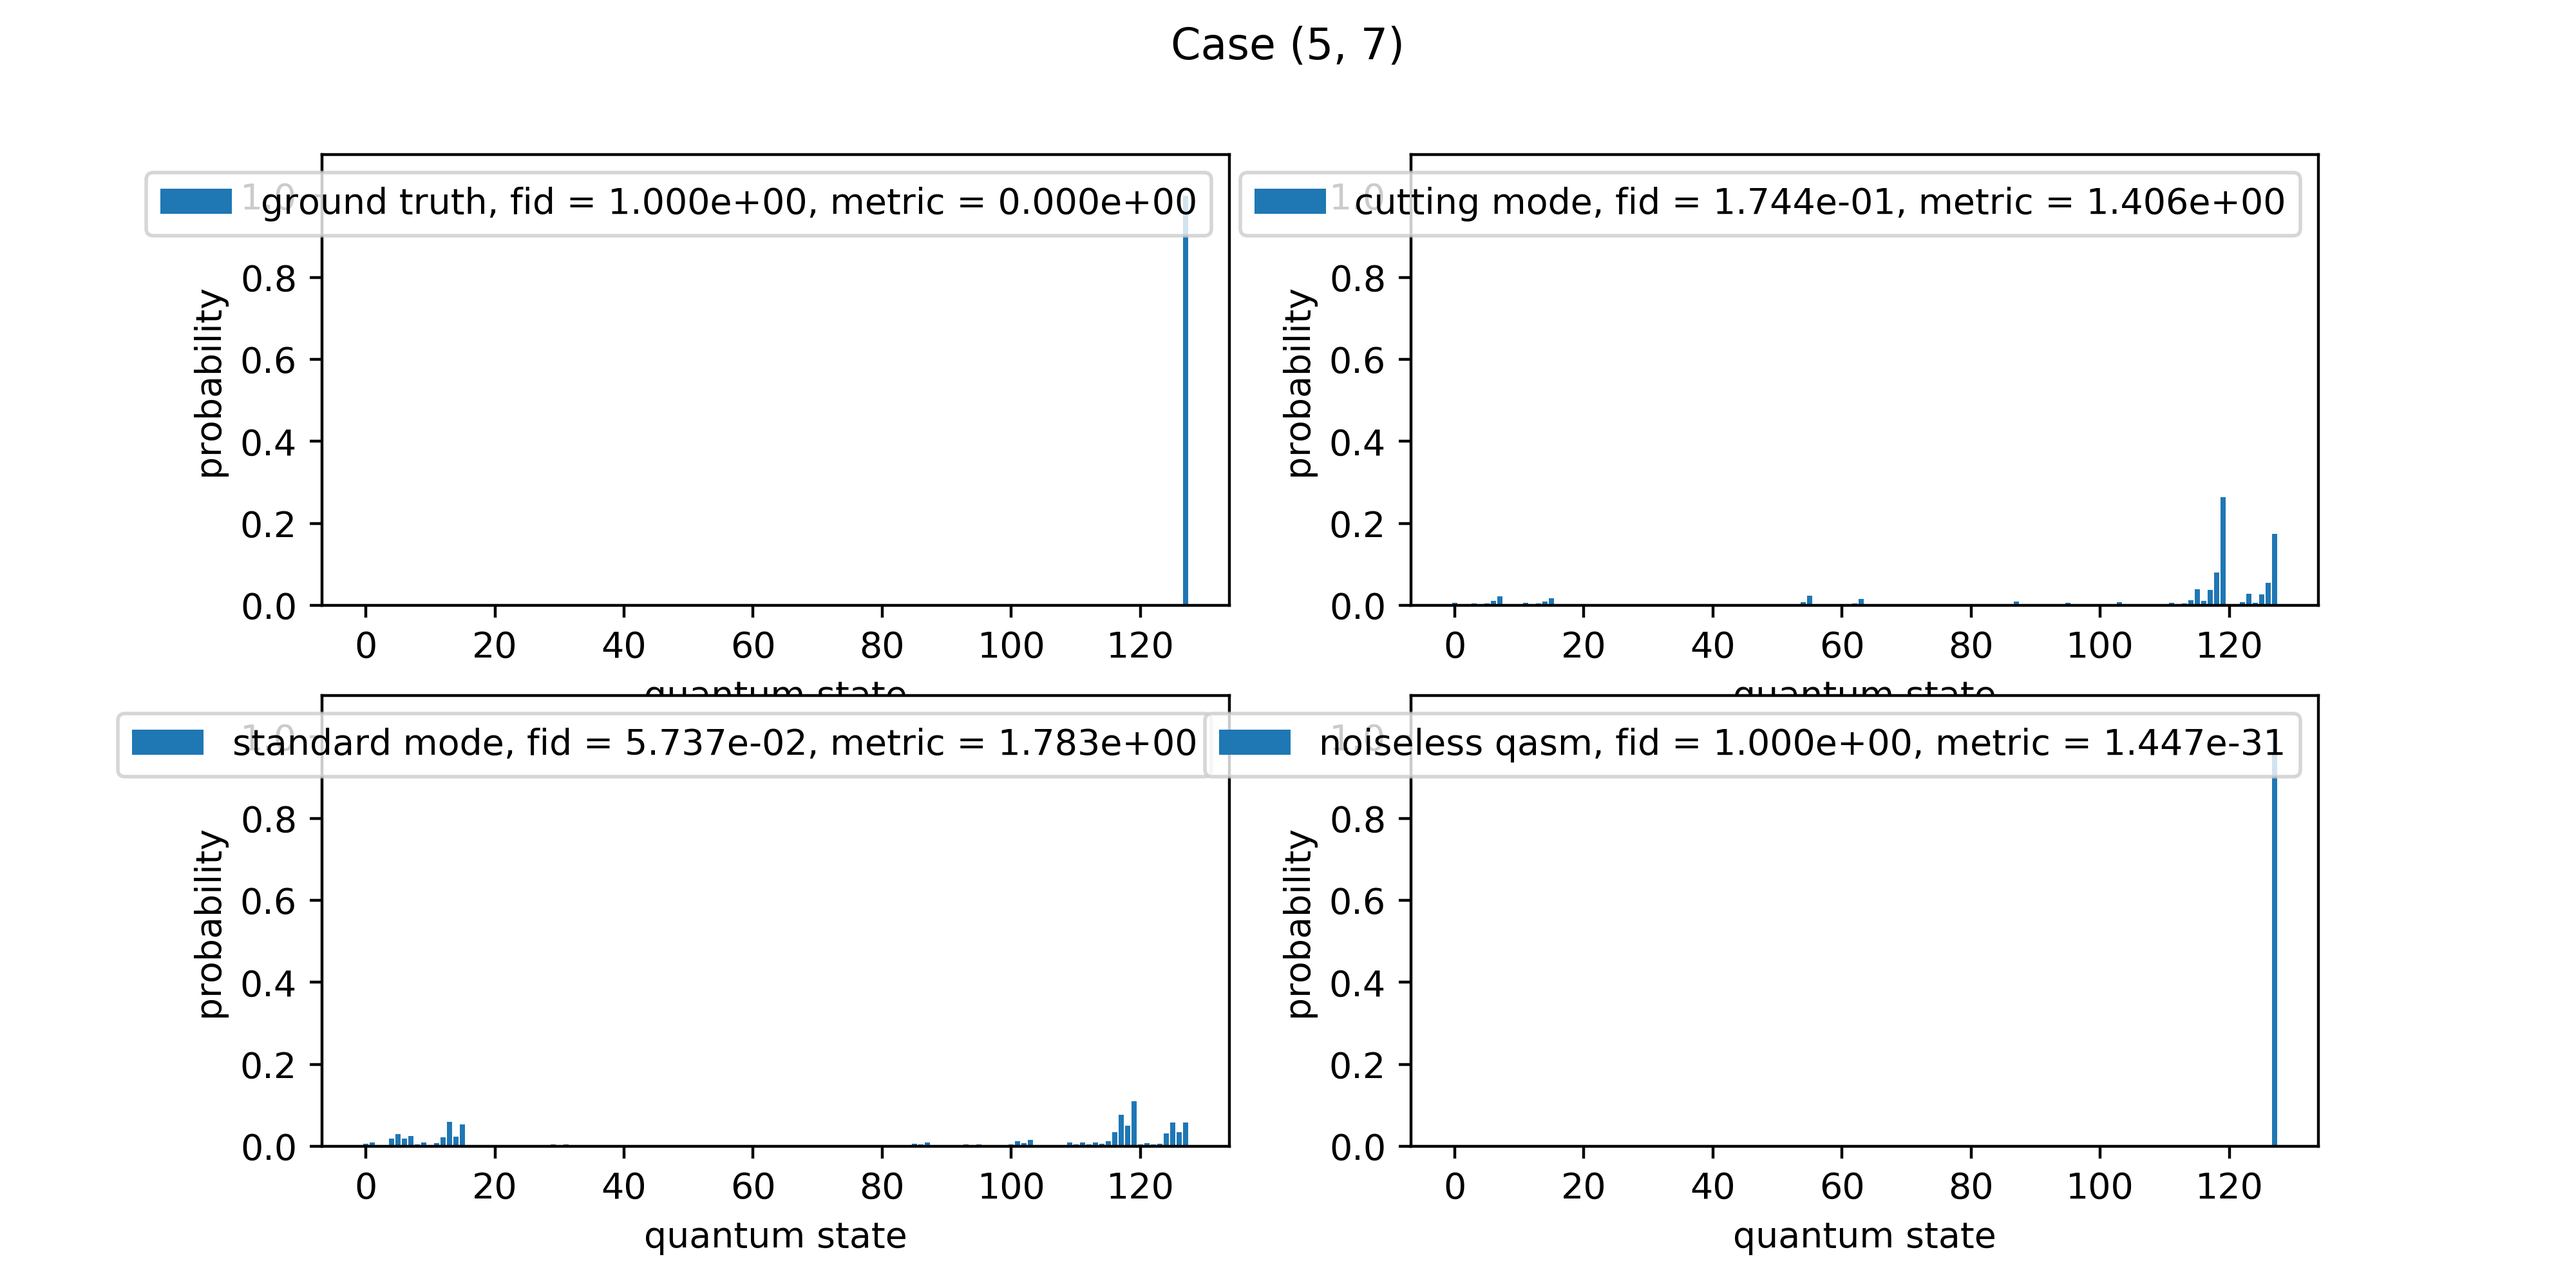
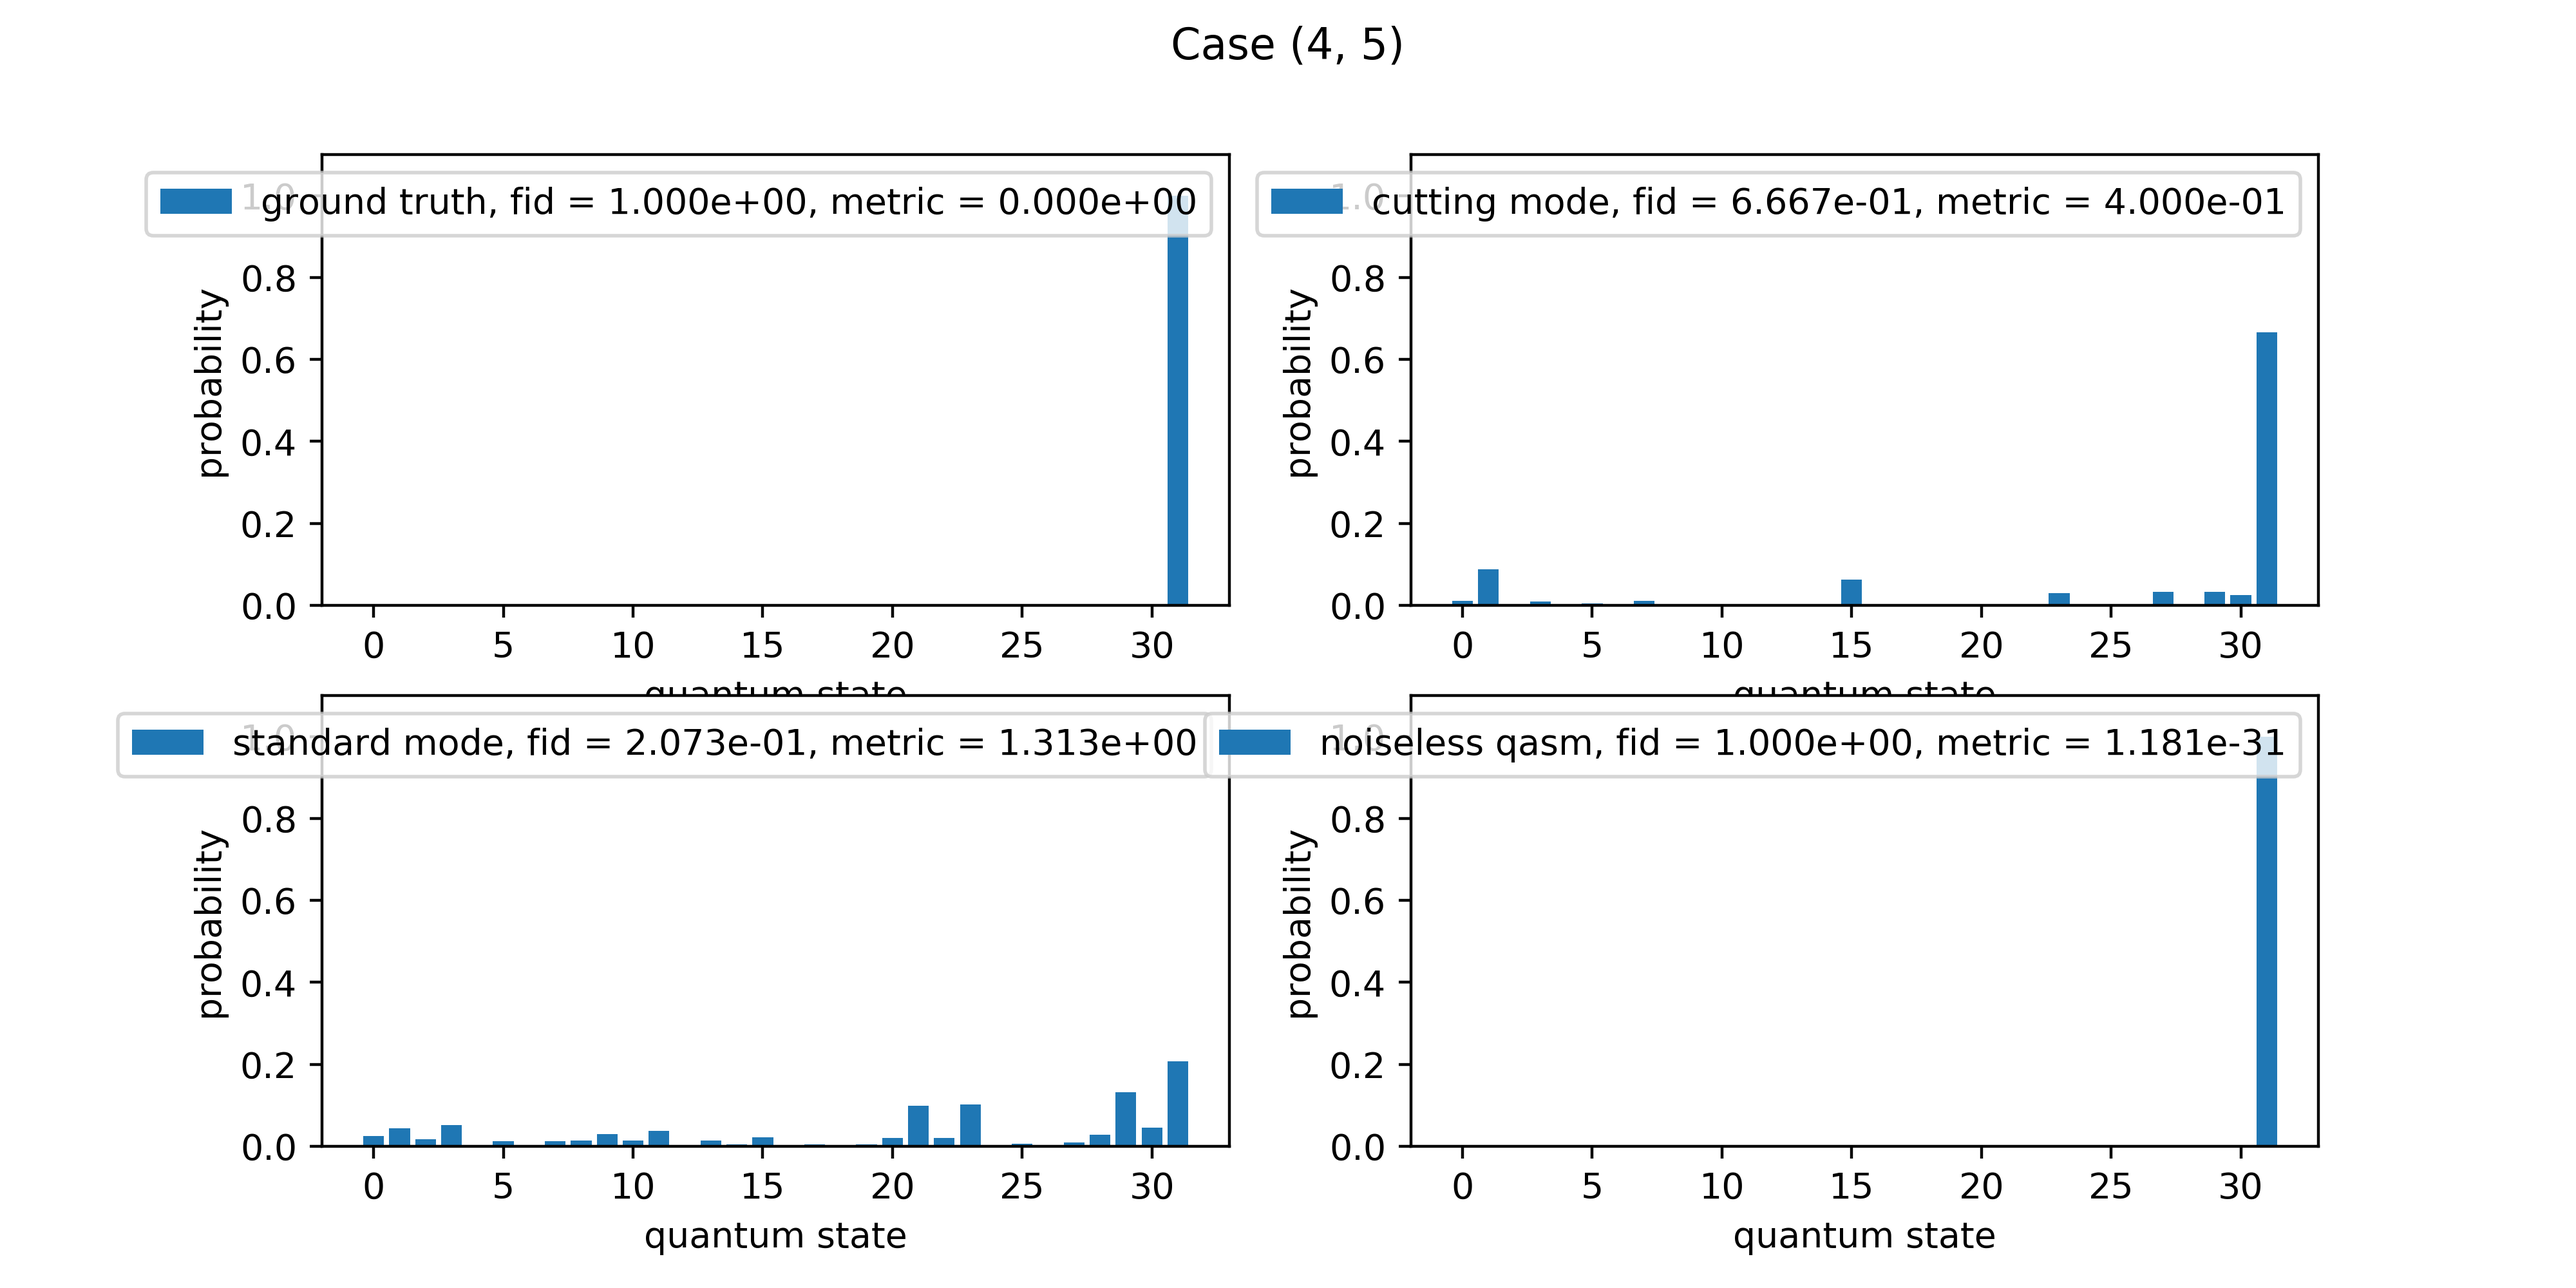
check hw output

diff --git a/decay/decay.py b/decay/decay.py
@@ -53,7 +53,7 @@ def noiseless_decay(circuit,shots_increment,device_max_experiments):
     chi2_l = []
     distance_l = []
     max_counter = max(20,int(20*np.power(2,full_circ_size)/shots_increment))
-    max_counter = min(max_counter,device_max_experiments/10)
+    max_counter = min(max_counter,int(device_max_experiments/10))
     for counter in range(1,max_counter+1):
         noiseless_accumulated_prob = accumulate_batch(circ=circuit,accumulated_prob=noiseless_accumulated_prob,
         counter=counter,evaluator_info={'num_shots':shots_increment},evaluation_method='qasm_simulator')
@@ -88,7 +88,7 @@ def noisy_decay(circuit,shots_increment,device_max_experiments):
         distance = wasserstein_distance(u_values=ground_truth,v_values=noisy_accumulated_prob)
         chi2_l.append(chi2)
         distance_l.append(distance)
-        if full_circ_size>=15 and counter%50==0:
+        if counter%10==0:
             time_elapsed = time()-decay_begin
             eta = time_elapsed/counter*max_counter-time_elapsed
             print('%d qubit circuit, counter %d/%d, noisy ETA = %.1e'%(full_circ_size,counter,max_counter,eta),flush=True)

diff --git a/utils/check_output.py b/utils/check_output.py
@@ -18,7 +18,7 @@ if __name__ == '__main__':
     plotter_input = read_file(dirname+plotter_input_filename)
     print(plotter_input.keys())
 
-    case = (5,7)
+    case = (4,5)
     plotter_input = plotter_input[case]
 
     d1 = plotter_input['sv']
